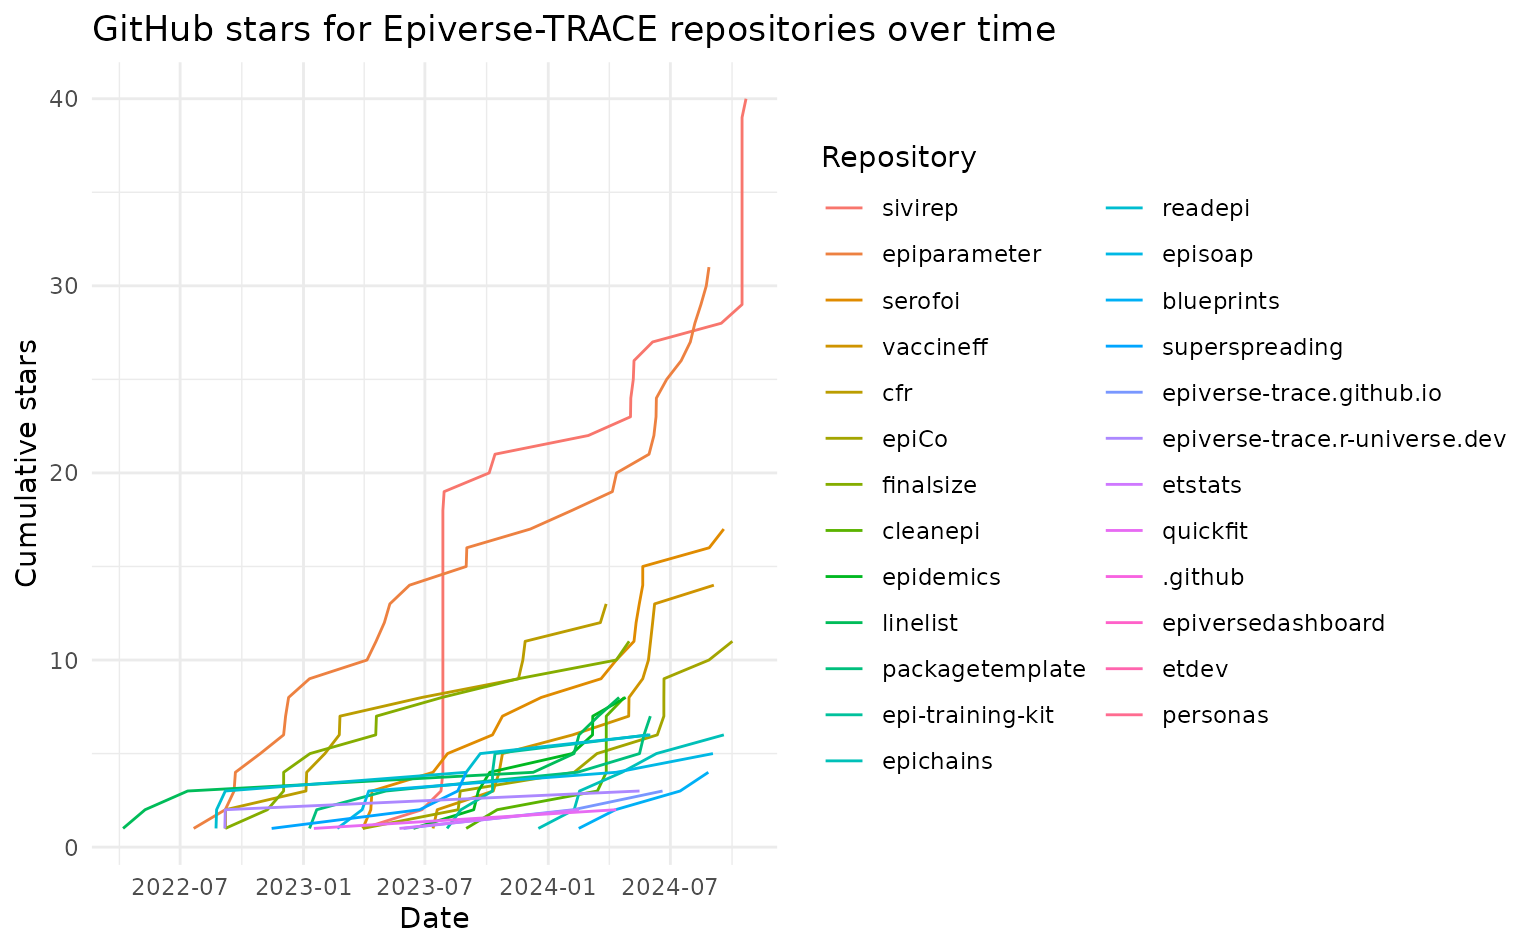
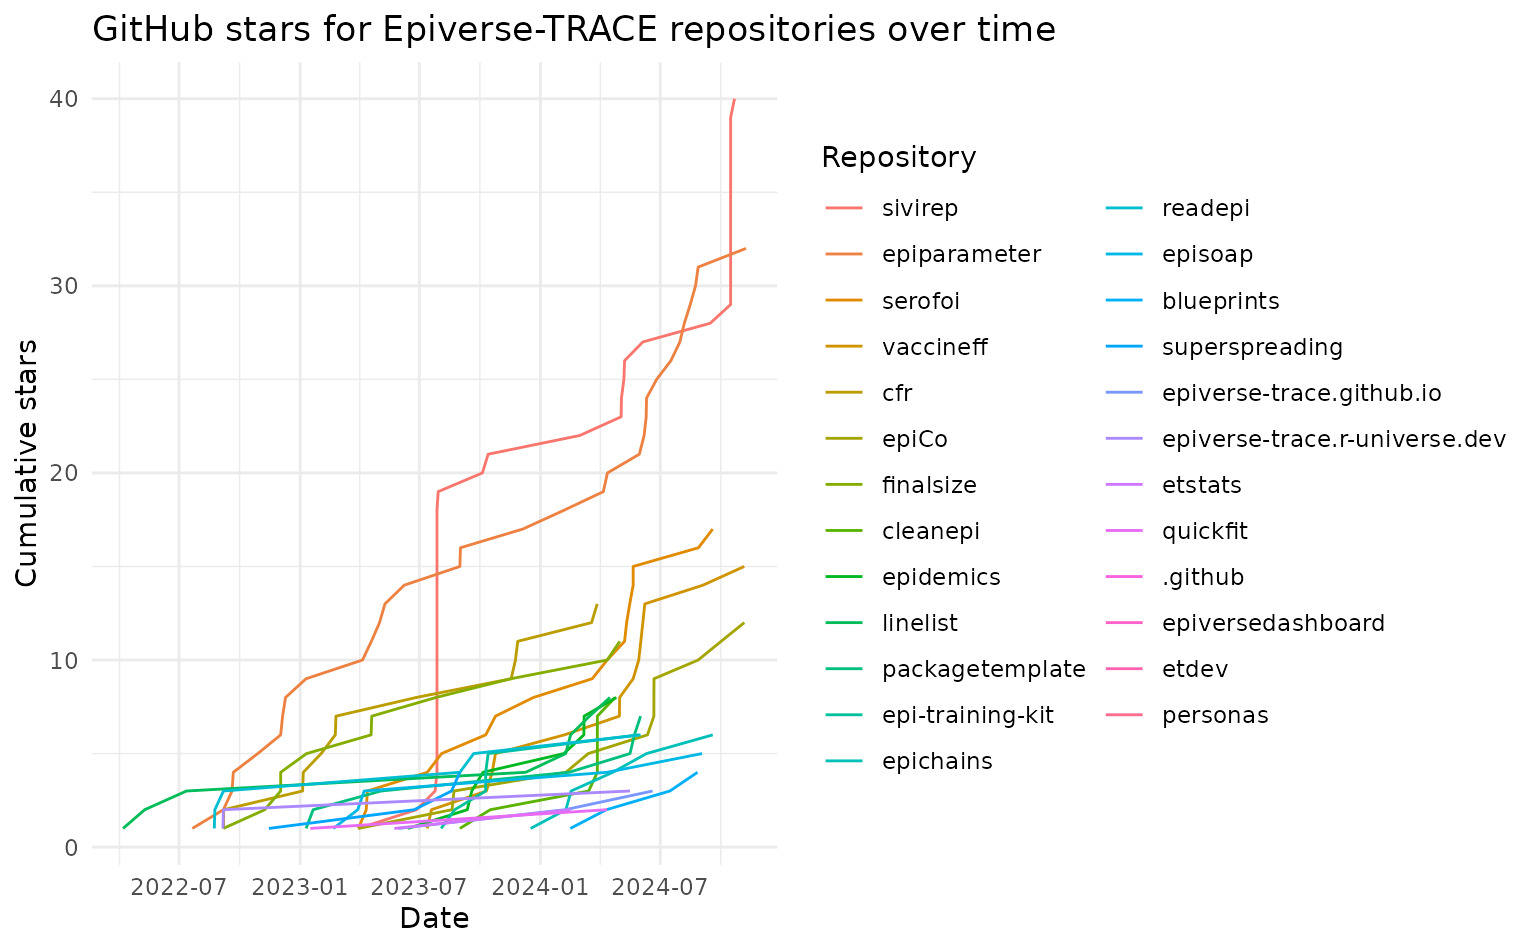
Deploying to gh-pages from @ epiverse-trace/etstats@60a3d8459ac905c32cf7a45f8c55aea93483c48b 🚀

diff --git a/articles/cran-statistics.html b/articles/cran-statistics.html
@@ -74,7 +74,7 @@
 
       <h1>CRAN statistics</h1>
             
-            <h4 data-toc-skip class="date">2024-11-04</h4>
+            <h4 data-toc-skip class="date">2024-11-11</h4>
       
       <small class="dont-index">Source: <a href="https://github.com/epiverse-trace/etstats/blob/main/vignettes/cran-statistics.Rmd" class="external-link"><code>vignettes/cran-statistics.Rmd</code></a></small>
       <div class="d-none name"><code>cran-statistics.Rmd</code></div>
@@ -84,20 +84,20 @@
     
 <p>We currently have 8 Epiverse-TRACE packages on CRAN:</p>
 <ul>
+<li><a href="https://cran.r-project.org/package=epichains" class="external-link">epichains</a></li>
 <li><a href="https://cran.r-project.org/package=ColOpenData" class="external-link">ColOpenData</a></li>
 <li><a href="https://cran.r-project.org/package=numberize" class="external-link">numberize</a></li>
-<li><a href="https://cran.r-project.org/package=epichains" class="external-link">epichains</a></li>
 <li><a href="https://cran.r-project.org/package=cleanepi" class="external-link">cleanepi</a></li>
 <li><a href="https://cran.r-project.org/package=cfr" class="external-link">cfr</a></li>
 <li><a href="https://cran.r-project.org/package=linelist" class="external-link">linelist</a></li>
 <li><a href="https://cran.r-project.org/package=epiCo" class="external-link">epiCo</a></li>
 <li><a href="https://cran.r-project.org/package=finalsize" class="external-link">finalsize</a></li>
 </ul>
-<p>In total, Epiverse-TRACE packages on CRAN have been downloaded 32378
+<p>In total, Epiverse-TRACE packages on CRAN have been downloaded 33159
 times.</p>
 <p>Below is a visualization of the breakdown of this grand total by
 package over time.</p>
-<p><img src="cran-statistics_files/figure-html/unnamed-chunk-7-1.png" alt="Cumulative downloads of Epiverse-TRACE on CRAN (ColOpenData, numberize, epichains, cleanepi, cfr, linelist, epiCo, finalsize)" width="768"></p>
+<p><img src="cran-statistics_files/figure-html/unnamed-chunk-7-1.png" alt="Cumulative downloads of Epiverse-TRACE on CRAN (epichains, ColOpenData, numberize, cleanepi, cfr, linelist, epiCo, finalsize)" width="768"></p>
 <table class="table">
 <thead><tr class="header">
 <th align="left">package</th>
@@ -110,55 +110,55 @@ package over time.</p>
 <td align="left">finalsize</td>
 <td align="right">260</td>
 <td align="right">2881</td>
-<td align="right">2905</td>
+<td align="right">2972</td>
 </tr>
 <tr class="even">
 <td align="left">linelist</td>
 <td align="right">3712</td>
 <td align="right">4898</td>
-<td align="right">7171</td>
+<td align="right">7324</td>
 </tr>
 <tr class="odd">
 <td align="left">cfr</td>
 <td align="right">NA</td>
 <td align="right">364</td>
-<td align="right">4483</td>
+<td align="right">4571</td>
 </tr>
 <tr class="even">
 <td align="left">ColOpenData</td>
 <td align="right">NA</td>
 <td align="right">NA</td>
-<td align="right">423</td>
+<td align="right">555</td>
 </tr>
 <tr class="odd">
 <td align="left">cleanepi</td>
 <td align="right">NA</td>
 <td align="right">NA</td>
-<td align="right">1260</td>
+<td align="right">1344</td>
 </tr>
 <tr class="even">
 <td align="left">epiCo</td>
 <td align="right">NA</td>
 <td align="right">NA</td>
-<td align="right">855</td>
+<td align="right">909</td>
 </tr>
 <tr class="odd">
 <td align="left">epichains</td>
 <td align="right">NA</td>
 <td align="right">NA</td>
-<td align="right">192</td>
+<td align="right">240</td>
 </tr>
 <tr class="even">
 <td align="left">numberize</td>
 <td align="right">NA</td>
 <td align="right">NA</td>
-<td align="right">2974</td>
+<td align="right">3129</td>
 </tr>
 <tr class="odd">
 <td align="left">Total</td>
 <td align="right">3972</td>
 <td align="right">8143</td>
-<td align="right">20263</td>
+<td align="right">21044</td>
 </tr>
 </tbody>
 </table></main>

diff --git a/articles/github-statistics.html b/articles/github-statistics.html
@@ -74,7 +74,7 @@
 
       <h1>GitHub statistics</h1>
             
-            <h4 data-toc-skip class="date">2024-11-04</h4>
+            <h4 data-toc-skip class="date">2024-11-11</h4>
       
       <small class="dont-index">Source: <a href="https://github.com/epiverse-trace/etstats/blob/main/vignettes/github-statistics.Rmd" class="external-link"><code>vignettes/github-statistics.Rmd</code></a></small>
       <div class="d-none name"><code>github-statistics.Rmd</code></div>
@@ -85,7 +85,7 @@
 <div class="section level2">
 <h2 id="github-followers">GitHub followers<a class="anchor" aria-label="anchor" href="#github-followers"></a>
 </h2>
-<p>Our Epiverse-TRACE GitHub organization currently has 159
+<p>Our Epiverse-TRACE GitHub organization currently has 160
 followers.</p>
 </div>
 <div class="section level2">
@@ -94,8 +94,8 @@ followers.</p>
 <div class="section level3">
 <h3 id="totals">Totals<a class="anchor" aria-label="anchor" href="#totals"></a>
 </h3>
-<p>In total, we have 213 stars across all Epiverse-TRACE packages. These
-stars come from 132 unique users.</p>
+<p>In total, we have 216 stars across all Epiverse-TRACE packages. These
+stars come from 135 unique users.</p>
 <p><img src="github-statistics_files/figure-html/unnamed-chunk-5-1.png" width="768"></p>
 </div>
 <div class="section level3">
@@ -122,8 +122,8 @@ stars come from 132 unique users.</p>
 <td align="left">epiparameter</td>
 <td align="right">8</td>
 <td align="right">9</td>
-<td align="right">14</td>
-<td align="right">31</td>
+<td align="right">15</td>
+<td align="right">32</td>
 </tr>
 <tr class="odd">
 <td align="left">serofoi</td>
@@ -136,8 +136,8 @@ stars come from 132 unique users.</p>
 <td align="left">vaccineff</td>
 <td align="right">0</td>
 <td align="right">5</td>
-<td align="right">9</td>
-<td align="right">14</td>
+<td align="right">10</td>
+<td align="right">15</td>
 </tr>
 <tr class="odd">
 <td align="left">cfr</td>
@@ -147,17 +147,17 @@ stars come from 132 unique users.</p>
 <td align="right">13</td>
 </tr>
 <tr class="even">
+<td align="left">epiCo</td>
+<td align="right">0</td>
+<td align="right">3</td>
+<td align="right">9</td>
+<td align="right">12</td>
+</tr>
+<tr class="odd">
 <td align="left">finalsize</td>
 <td align="right">4</td>
 <td align="right">5</td>
 <td align="right">2</td>
-<td align="right">11</td>
-</tr>
-<tr class="odd">
-<td align="left">epiCo</td>
-<td align="right">0</td>
-<td align="right">3</td>
-<td align="right">8</td>
 <td align="right">11</td>
 </tr>
 <tr class="even">
@@ -290,8 +290,8 @@ stars come from 132 unique users.</p>
 <td align="left">Total</td>
 <td align="right">24</td>
 <td align="right">89</td>
-<td align="right">100</td>
-<td align="right">213</td>
+<td align="right">103</td>
+<td align="right">216</td>
 </tr>
 </tbody>
 </table>
